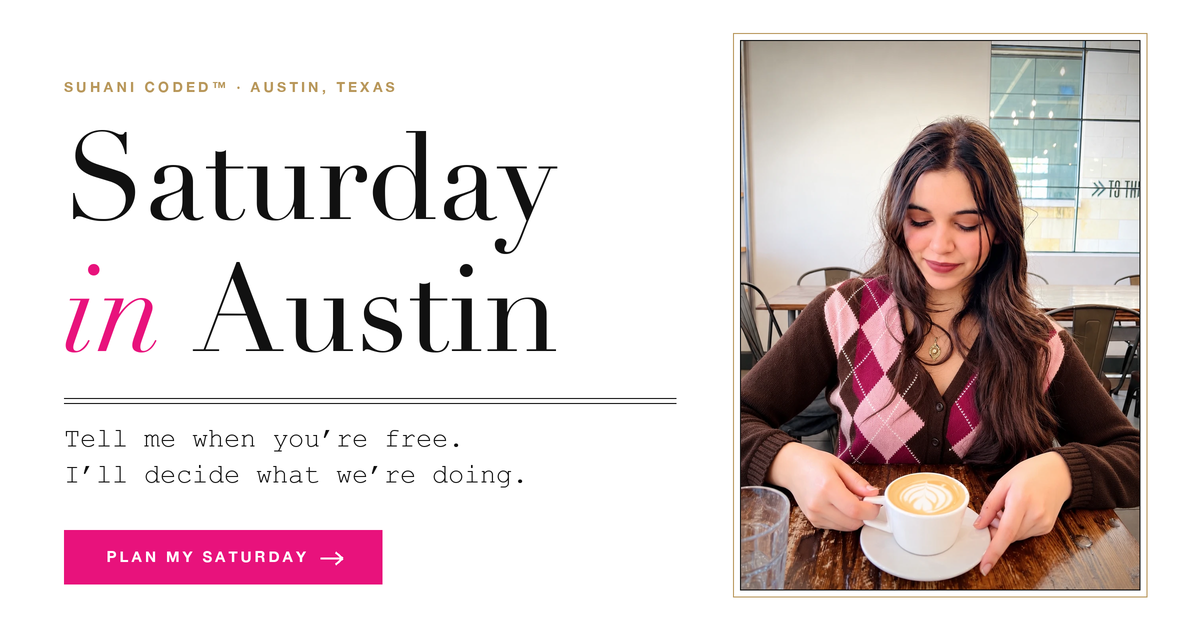
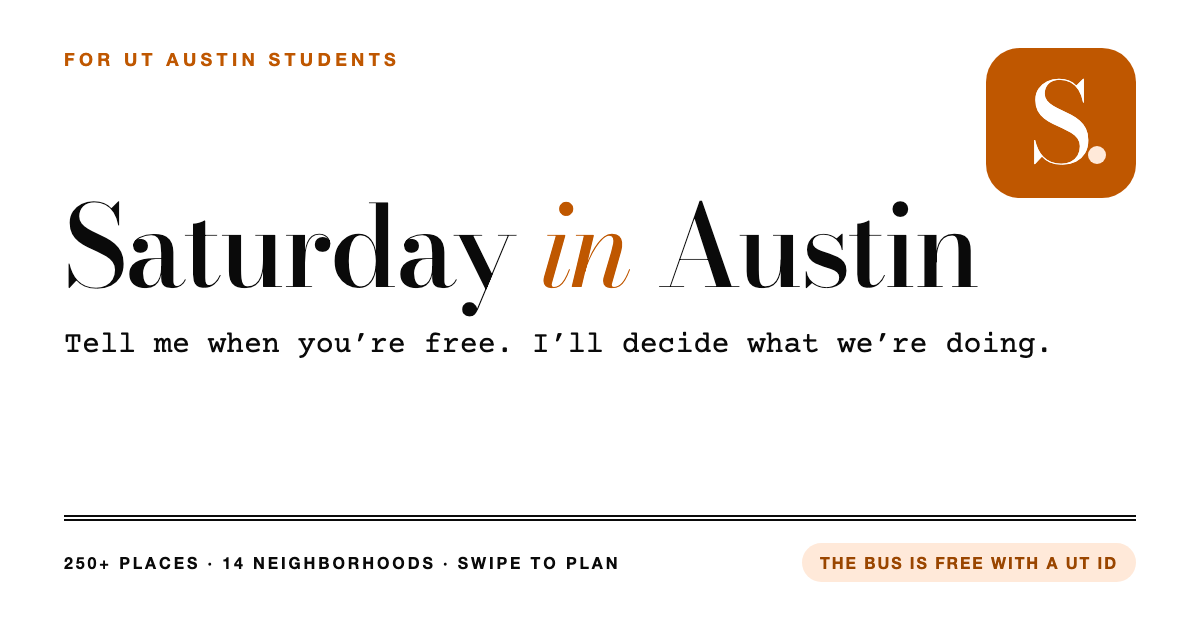
Orange share card for UT students

diff --git a/index.html b/index.html
@@ -13,7 +13,7 @@
     <meta name="mobile-web-app-capable" content="yes">
     <meta name="apple-mobile-web-app-title" content="Saturday">
     <meta name="apple-mobile-web-app-status-bar-style" content="default">
-    <meta name="description" content="Tell me when you're free. I'll decide what we're doing. A Python planner with opinions about Austin Saturdays.">
+    <meta name="description" content="Tell me when you're free. I'll decide what we're doing. A Saturday planner for UT Austin students: 250+ places, swipe to plan, and the bus is free with a UT ID.">
     <meta property="og:title" content="Saturday in Austin">
     <meta property="og:description" content="Tell me when you're free. I'll decide what we're doing.">
     <meta property="og:type" content="website">
@@ -21,7 +21,7 @@
     <meta property="og:image" content="https://suhxnitiwari.github.io/saturday-in-austin/docs/share-card.png">
     <meta property="og:image:width" content="1200">
     <meta property="og:image:height" content="630">
-    <meta property="og:image:alt" content="Saturday in Austin, with Suhani and a latte">
+    <meta property="og:image:alt" content="Saturday in Austin: a Saturday planner for UT Austin students">
     <meta name="twitter:card" content="summary_large_image">
     <meta name="twitter:image" content="https://suhxnitiwari.github.io/saturday-in-austin/docs/share-card.png">
     <link rel="preconnect" href="https://fonts.googleapis.com">
